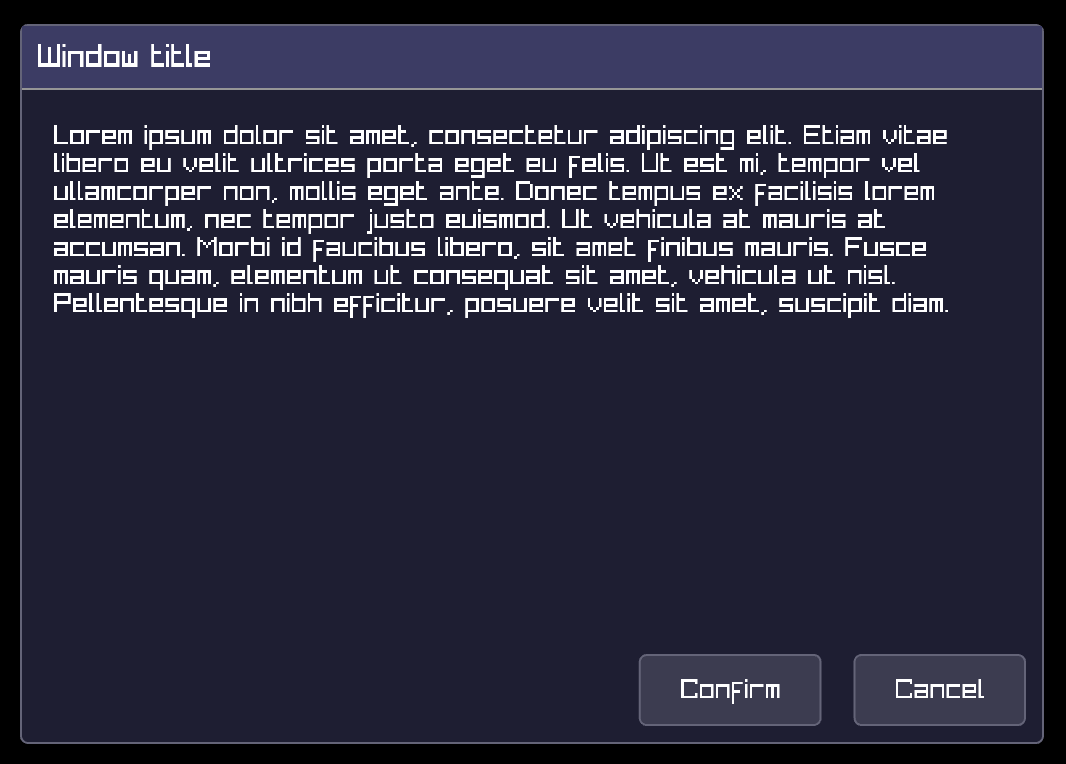
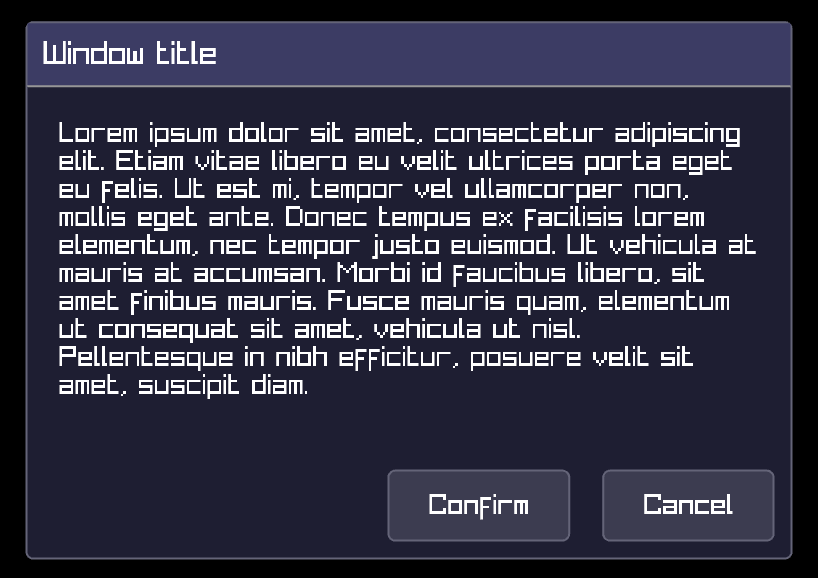
Update skinning demo screenshots

Changed region(s): [[0.0, 0.0311, 0.978, 0.9965]]

diff --git a/README.md b/README.md
@@ -9,7 +9,7 @@ It is meant for building user-facing UIs using familiar concepts from CSS.
 orui is a work in progress.
 
 <img src="demo/flex/screenshot.png" width="40%" /><img src="demo/window/screenshot.png" width="40.5%" />
-<img src="demo/skinning/screenshot1.png" width="39%" /><img src="demo/skinning/screenshot2.png" width="41%" />
+<img src="demo/skinning/screenshot1.png" width="40%" /><img src="demo/skinning/screenshot2.png" width="40%" />
 
 Features:
 
